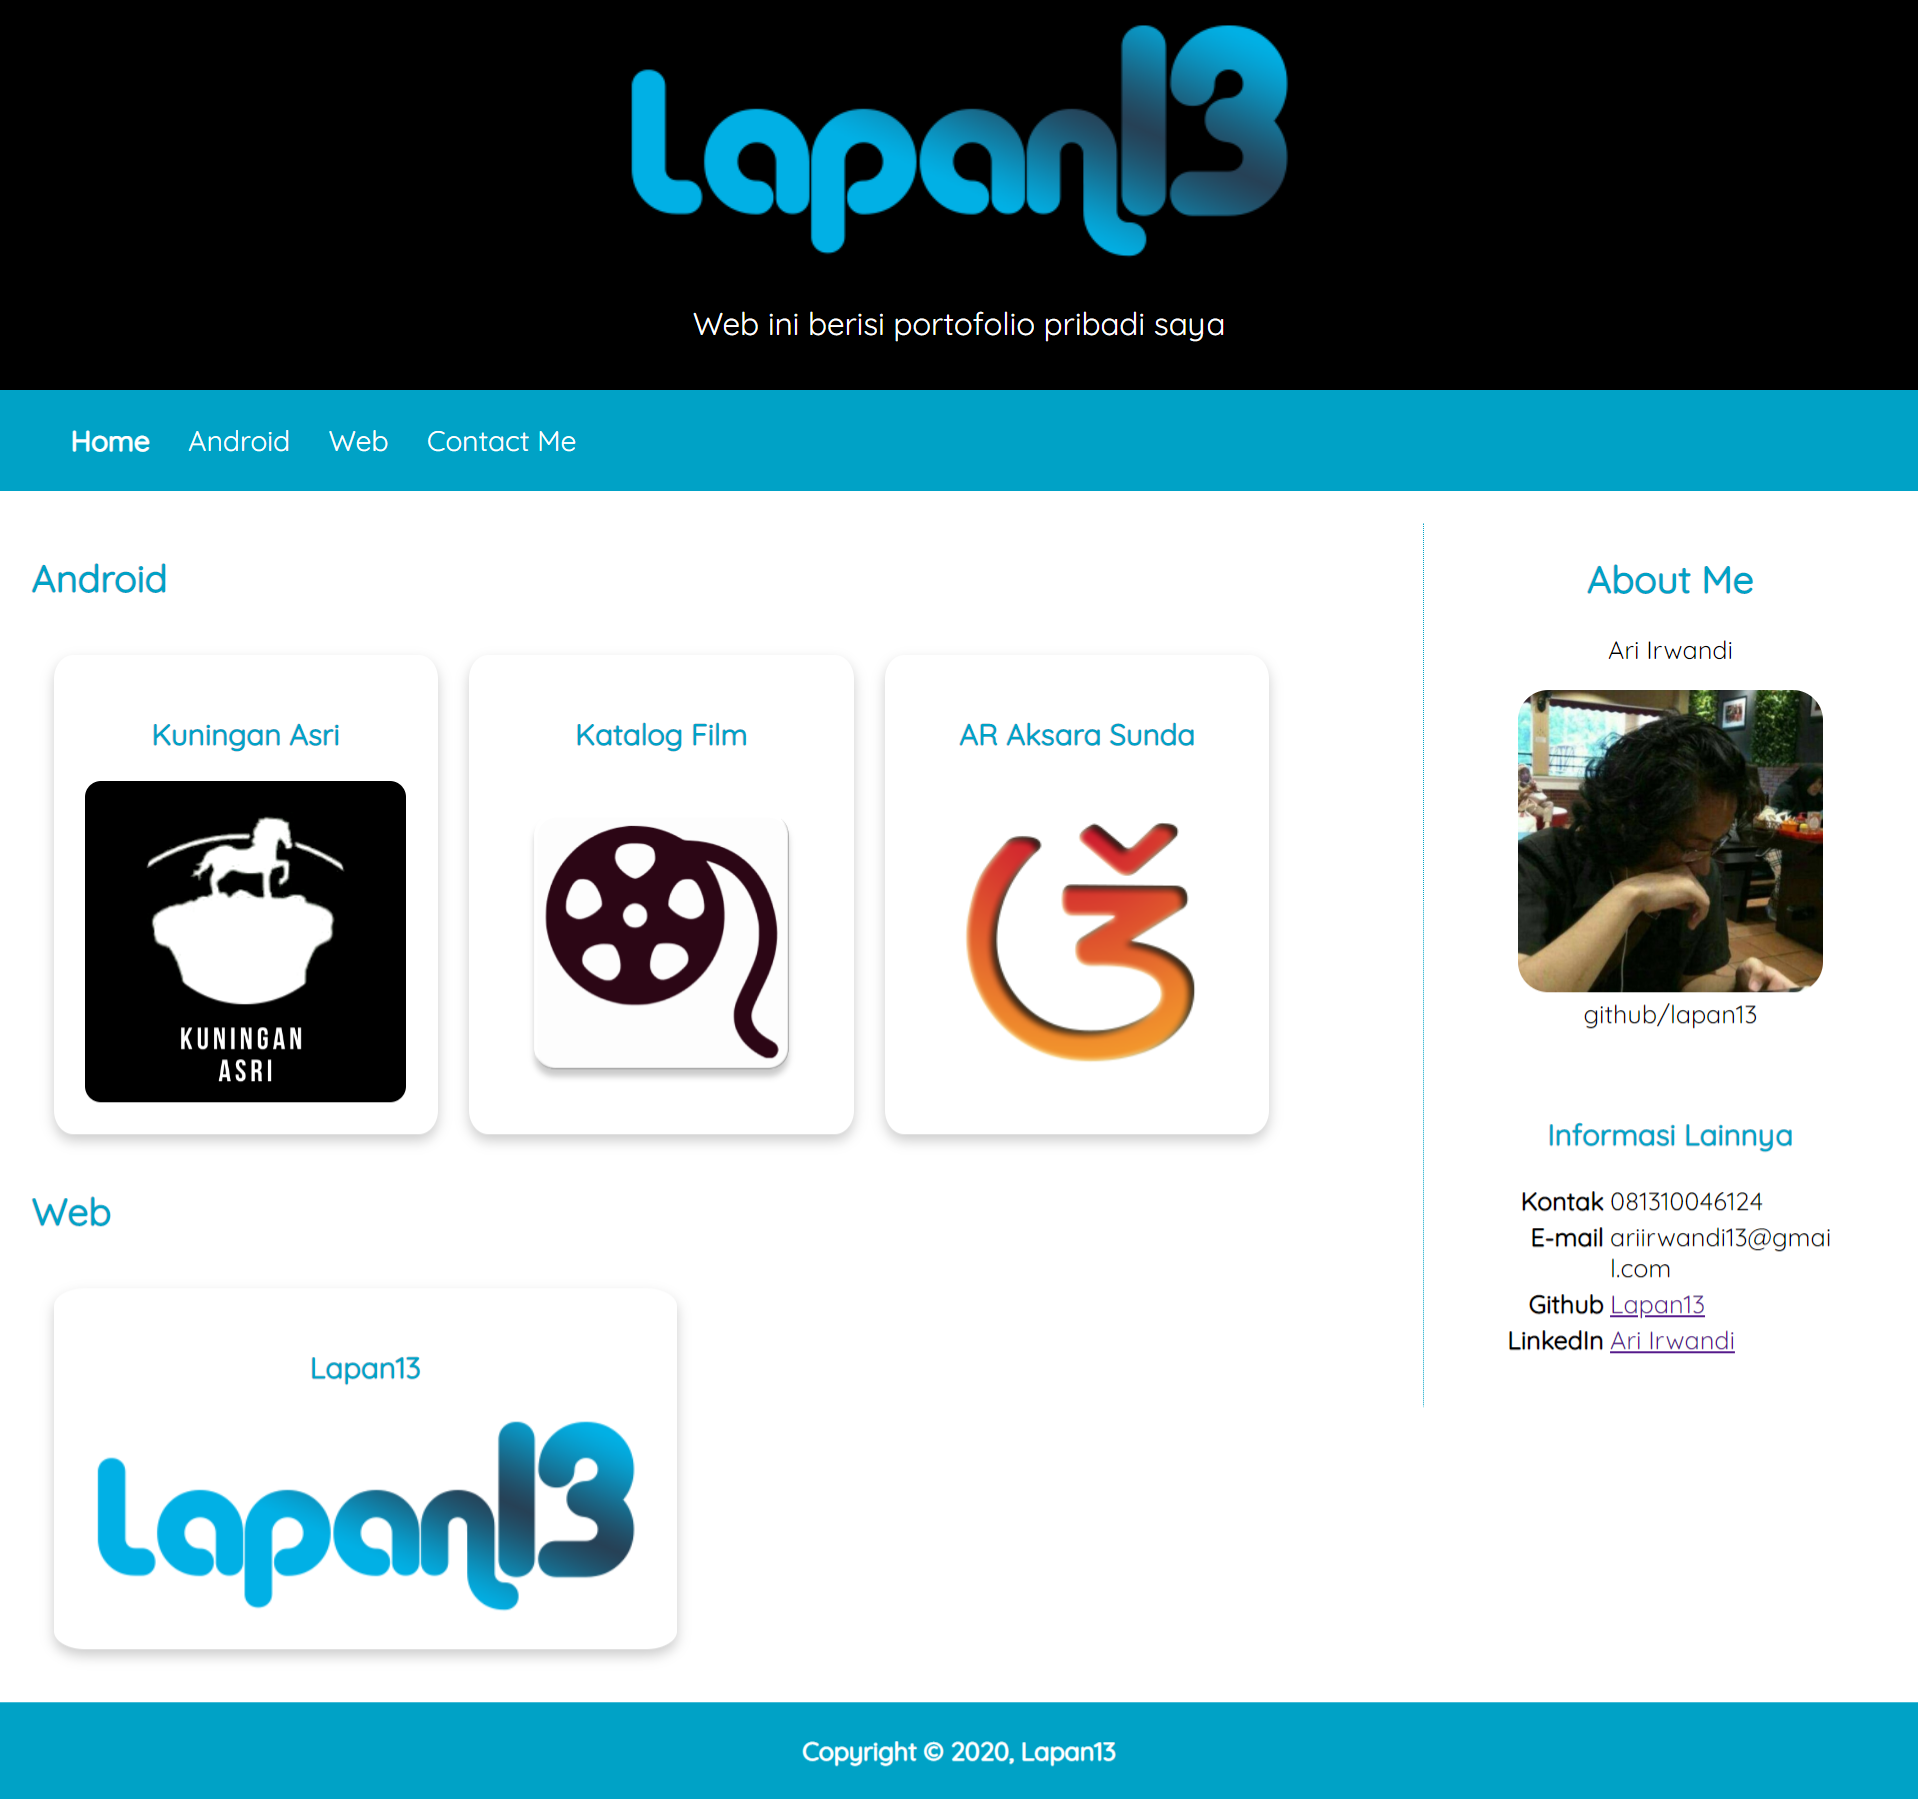
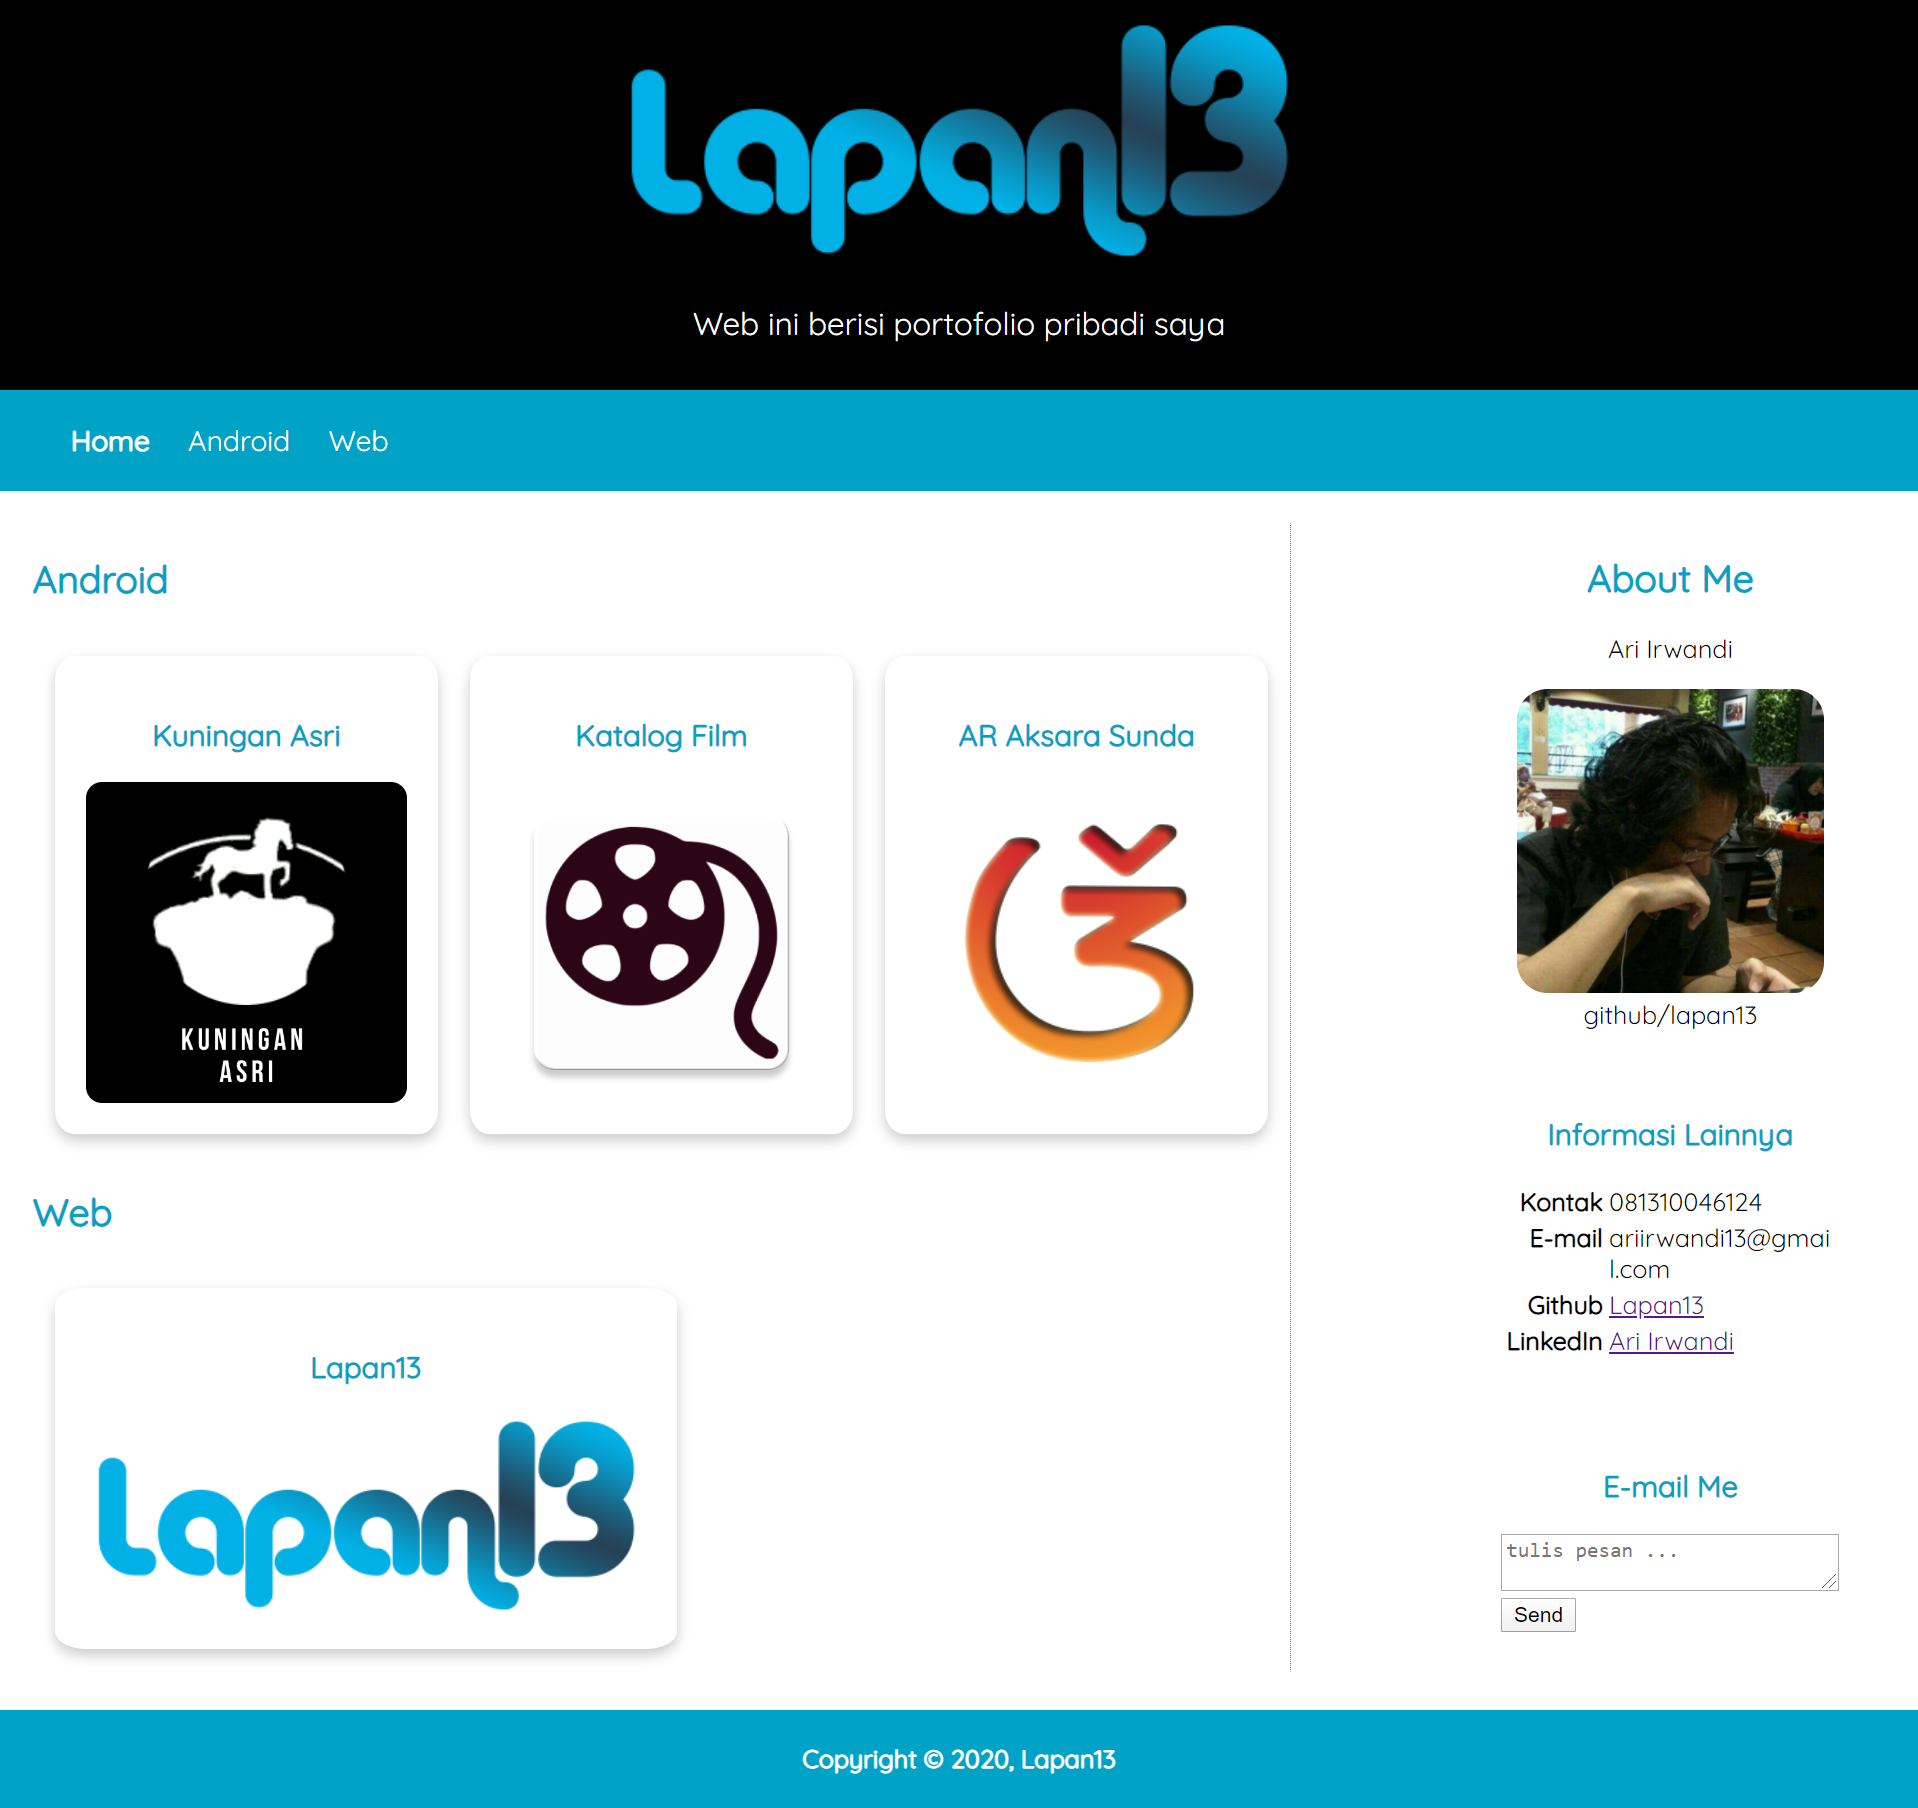
add content in web pages, mail.js, del contact.html

diff --git a/web.html b/web.html
@@ -23,7 +23,6 @@
                 <li><a href="index.html">Home</a></li>
                 <li><a href="android.html">Android</a></li>
                 <li><a href="web.html" style="font-weight: bolder;">Web</a></li>
-                <li><a href="contact.html">Contact Me</a></li>
             </ul>
         </nav>
     </header>
@@ -47,7 +46,9 @@
                         <li><b>Layout Responsif</b> menggunakan Flexbox dikombinasikan dengan media query</li>
                     </ol>
                     Screenshoot Aplikasi : <br><br>
-                    <img src="https://i.imgur.com/bD9dZsm.png" alt="main menu"><br><br>
+                    <img src="https://i.imgur.com/foYSuCA.png" alt="main menu">
+                    <img src="https://i.imgur.com/AlASBbH.png" alt="main menu">
+                    <img src="https://i.imgur.com/AN87Cvv.png" alt="main menu"><br><br>
 
                     Project bisa dilihat <a href="https://github.com/lapan13/KuninganAsri">disini</a>
                 </p>
@@ -89,6 +90,12 @@
                             </td>
                         </tr>
                     </table>
+                </section>
+                <section>
+                    <h3>E-mail Me</h3>
+                    <textarea id="myText" placeholder="tulis pesan ..."></textarea>
+                    <button onclick="sendMail(); return false">Send</button>
+                    <script src="assets/mail.js"></script>
                 </section>
             </article>
         </aside>

diff --git a/android.html b/android.html
@@ -23,7 +23,6 @@
                 <li><a href="index.html">Home</a></li>
                 <li><a href="android.html" style="font-weight: bolder;">Android</a></li>
                 <li><a href="web.html">Web</a></li>
-                <li><a href="contact.html">Contact Me</a></li>
             </ul>
         </nav>
     </header>
@@ -147,6 +146,12 @@
                             </td>
                         </tr>
                     </table>
+                </section>
+                <section>
+                    <h3>E-mail Me</h3>
+                    <textarea id="myText" placeholder="tulis pesan ..."></textarea>
+                    <button onclick="sendMail(); return false">Send</button>
+                    <script src="assets/mail.js"></script>
                 </section>
             </article>
         </aside>

diff --git a/index.html b/index.html
@@ -23,7 +23,6 @@
                 <li><a href="index.html" style="font-weight: bolder;">Home</a></li>
                 <li><a href="android.html">Android</a></li>
                 <li><a href="web.html">Web</a></li>
-                <li><a href="contact.html">Contact Me</a></li>
             </ul>
         </nav>
     </header>
@@ -88,6 +87,12 @@
                             </td>
                         </tr>
                     </table>
+                </section>
+                <section>
+                    <h3>E-mail Me</h3>
+                    <textarea id="myText" placeholder="tulis pesan ..."></textarea>
+                    <button onclick="sendMail(); return false">Send</button>
+                    <script src="assets/mail.js"></script>
                 </section>
             </article>
         </aside>

diff --git a/assets/mail.js b/assets/mail.js
@@ -1,0 +1,8 @@
+function sendMail() {
+    var link = "mailto:ariirwandi13@gmail.com" +
+        "?cc= " +
+        "&subject=" + escape("Web Portofolio") +
+        "&body=" + escape(document.getElementById('myText').value);
+
+    window.location.href = link;
+}

diff --git a/assets/styles/style.css b/assets/styles/style.css
@@ -131,6 +131,7 @@ aside {
 
 .profile p {
     text-align: center;
+
 }
 
 th {
@@ -141,6 +142,11 @@ th {
 td {
     text-align: left;
     word-break: break-all;
+
+}
+
+.profile textarea {
+    width: 100%;
 }
 
 footer {
